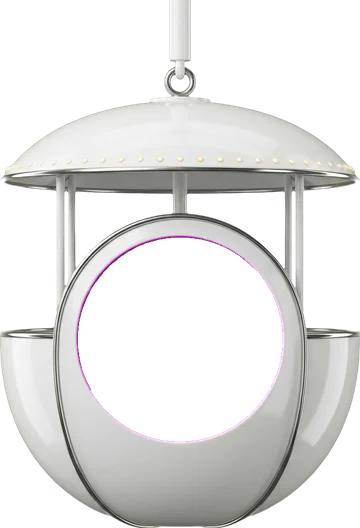
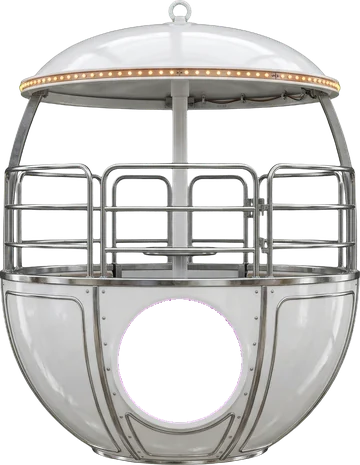
Podyum menü dönme dolabı: kafes tipi beyaz kabinler

diff --git a/menu-podyum.html b/menu-podyum.html
@@ -28,7 +28,7 @@
  * Eski Service Worker / browser cache kalıntısı varsa
  * sayfa açılır açılmaz tek seferlik temizler + reload yapar. */
 (function(){
-  var APP_VER='cactus-2026-11-12-donme-dolap-r1'; // bump → cihazlarda zorla reset
+  var APP_VER='cactus-2026-11-12-donme-dolap-r2'; // bump → cihazlarda zorla reset
   try{
     var stored=localStorage.getItem('cactus_app_ver_menu');
     if(stored===APP_VER) return; // Güncel — sessiz geç
@@ -949,13 +949,12 @@ body:has(.kampanya-bg.on) a[aria-label="Instagram"],body:has(.kampanya-bg.on) a[
   @keyframes dmRenk{0%,100%{stroke:#fff6dc}25%{stroke:#ff5fd2}50%{stroke:#62e6ff}75%{stroke:#ffd34d}}
   .dm-neon{fill:none;animation:dmNeon 2.6s ease-in-out infinite}
   @keyframes dmNeon{0%,100%{stroke:#3fa9ff;opacity:.95}50%{stroke:#b45cff;opacity:.6}}
-  .dm-kabin{position:absolute;left:0;top:0;width:21%;aspect-ratio:360/528;will-change:transform;z-index:2;cursor:pointer;-webkit-tap-highlight-color:transparent;background:none!important;border:0!important;padding:0!important;margin:0!important;box-shadow:none!important;-webkit-appearance:none;appearance:none;border-radius:0;min-width:0;min-height:0;font:inherit;color:inherit}
+  .dm-kabin{position:absolute;left:0;top:0;width:22%;aspect-ratio:360/465;will-change:transform;z-index:2;cursor:pointer;-webkit-tap-highlight-color:transparent;background:none!important;border:0!important;padding:0!important;margin:0!important;box-shadow:none!important;-webkit-appearance:none;appearance:none;border-radius:0;min-width:0;min-height:0;font:inherit;color:inherit}
   .dm-sal{position:absolute;inset:0;transform-origin:50% 0;transition:scale .4s cubic-bezier(.2,.8,.2,1)}
-  .dm-cam{position:absolute;left:21.5%;top:44.8%;width:57%;aspect-ratio:1;border-radius:50%;overflow:hidden;background:#0a1611}
+  .dm-cam{position:absolute;left:32.4%;top:63.9%;width:35.2%;aspect-ratio:1;border-radius:50%;overflow:hidden;background:#0a1611}
   .dm-cam img{width:100%;height:100%;object-fit:cover;display:block;transform:scale(1.04)}
   .dm-govde{position:absolute;inset:0;width:100%;height:100%;pointer-events:none;filter:drop-shadow(0 8px 12px rgba(0,0,0,.55))}
-  .dm-boya{position:absolute;inset:0;pointer-events:none;mix-blend-mode:multiply;-webkit-mask:url(dolap-menu/kabin.webp) center/100% 100% no-repeat;mask:url(dolap-menu/kabin.webp) center/100% 100% no-repeat;background:linear-gradient(160deg,color-mix(in srgb,var(--kc) 70%,#fff) 0%,var(--kc) 55%,color-mix(in srgb,var(--kc) 75%,#000) 100%)}
-  .dm-ad{position:absolute;left:50%;top:94%;transform:translateX(-50%);white-space:nowrap;font-size:9.5px;font-weight:600;letter-spacing:2px;text-transform:uppercase;color:#fff;text-shadow:0 1px 6px rgba(0,0,0,.95)}
+  .dm-ad{position:absolute;left:50%;top:101%;transform:translateX(-50%);white-space:nowrap;font-size:9.5px;font-weight:600;letter-spacing:2px;text-transform:uppercase;color:#fff;text-shadow:0 1px 6px rgba(0,0,0,.95)}
   .dm-kabin:hover .dm-sal,.dm-kabin:focus-visible .dm-sal{scale:1.1}
   .dm-kabin.alt .dm-sal{scale:1.14}
   .dm-ipucu{position:relative;z-index:2;font-size:9px;letter-spacing:3px;color:rgba(255,255,255,.55);margin-top:4px}
@@ -1003,9 +1002,9 @@ body:has(.kampanya-bg.on) a[aria-label="Instagram"],body:has(.kampanya-bg.on) a[
     g+='<circle r="13" class="dm-led" stroke-width="2.4"/>';
     svg.innerHTML=g;
     var kabinler=KAT.map(function(k,i){
-      var d=document.createElement('button'); d.type='button'; d.className='dm-kabin'; d.style.setProperty('--kc',k.r);
+      var d=document.createElement('button'); d.type='button'; d.className='dm-kabin';
       d.setAttribute('aria-label',k.ad+' kategorisine git');
-      d.innerHTML='<div class="dm-sal"><div class="dm-cam"><img loading="lazy" alt="" src="dolap-menu/'+k.id+'.jpg" draggable="false"></div><img class="dm-govde" src="dolap-menu/kabin.webp" alt="" draggable="false"><div class="dm-boya"></div></div><span class="dm-ad">'+k.ad+'</span>';
+      d.innerHTML='<div class="dm-sal"><div class="dm-cam"><img loading="lazy" alt="" src="dolap-menu/'+k.id+'.jpg" draggable="false"></div><img class="dm-govde" src="dolap-menu/kabin.webp" alt="" draggable="false"></div><span class="dm-ad">'+k.ad+'</span>';
       d.addEventListener('click',function(){ if(surukledi) return; kategoriyeGit(k); });
       sahne.appendChild(d); return d;
     });
